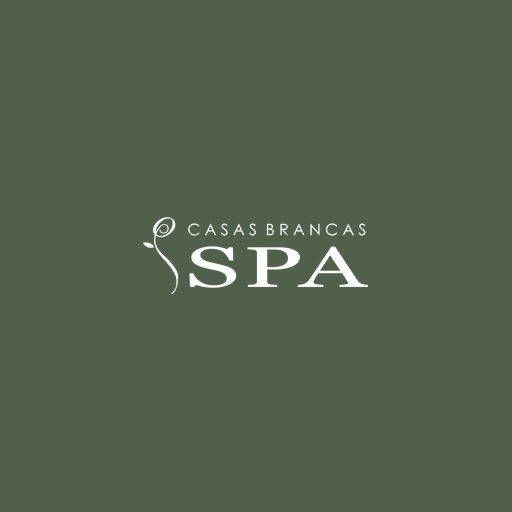
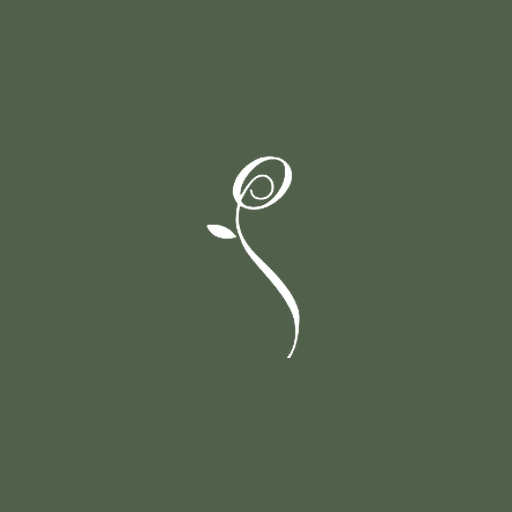
Add files via upload

Changed region(s): [[0.3438, 0.2812, 0.7188, 0.6875], [0.2812, 0.4062, 0.3438, 0.5], [0.3125, 0.5, 0.3438, 0.5312]]

diff --git a/terapeuta.html b/terapeuta.html
@@ -139,7 +139,7 @@
     // ===== PWA: manifesto individual por terapeuta + service worker =====
     if(cfg){
         try{
-            var _m={ name:'SPA — '+nome, short_name:nome, start_url:'terapeuta.html?t='+encodeURIComponent(nome)+'&from=app', scope:'./', display:'standalone', orientation:'portrait', background_color:'#eef0e8', theme_color:'#51604a',
+            var _m={ name:'SPA Casas Brancas Agenda', short_name:'SPA Agenda', start_url:'terapeuta.html?t='+encodeURIComponent(nome)+'&from=app', scope:'./', display:'standalone', orientation:'portrait', background_color:'#eef0e8', theme_color:'#51604a',
                 icons:[{src:'icon-spa-192.png',sizes:'192x192',type:'image/png'},{src:'icon-spa-512.png',sizes:'512x512',type:'image/png'},{src:'icon-spa-maskable.png',sizes:'512x512',type:'image/png',purpose:'maskable'}] };
             var _b=new Blob([JSON.stringify(_m)],{type:'application/manifest+json'});
             var _l=document.createElement('link'); _l.rel='manifest'; _l.href=URL.createObjectURL(_b); document.head.appendChild(_l);